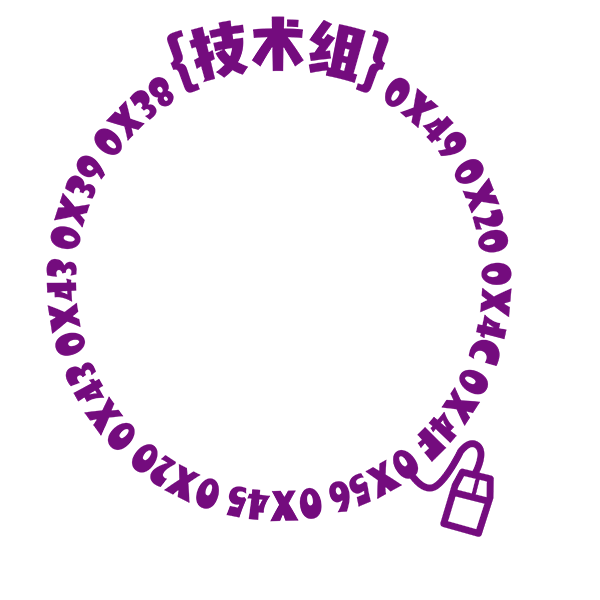
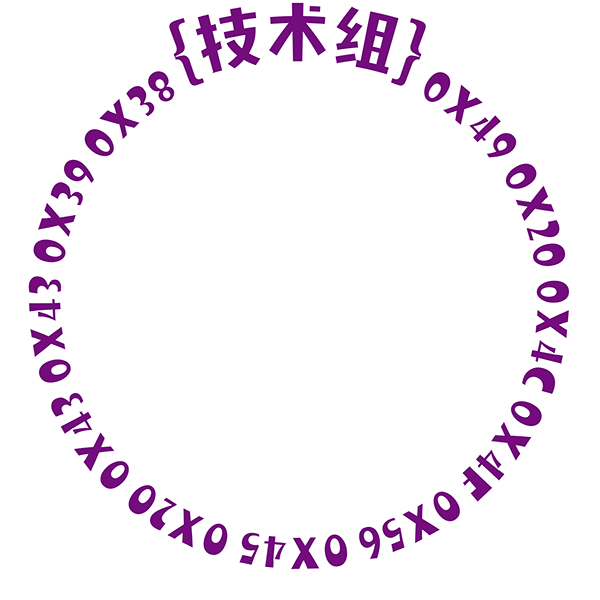
更新技术组头像框

Changed region(s): [[0.03, 0.0, 0.96, 0.96]]

diff --git a/CC98.Forum/CC98.Forum/Components/UserCenter/ExactAvatar.tsx b/CC98.Forum/CC98.Forum/Components/UserCenter/ExactAvatar.tsx
@@ -140,10 +140,10 @@ export default class extends React.Component<UserCenterExactAvatarProps, State> 
         this.setState({
           url: imageUrl,
           photoFrameStyle: {
-            width: '14.8rem',
+            width: '13rem',
             position: 'absolute',
-            top: '-2rem',
-            left: '-1.6rem'
+            top: '-1.4rem',
+            left: '-1.2rem'
           }
         })
       }
@@ -152,10 +152,10 @@ export default class extends React.Component<UserCenterExactAvatarProps, State> 
         this.setState({
           url: imageUrl,
           photoFrameStyle: {
-            width: '14.8rem',
+            width: '13rem',
             position: 'absolute',
-            top: '-2rem',
-            left: '-1.6rem'
+            top: '-1.4rem',
+            left: '-1.2rem'
           }
         })
       }
